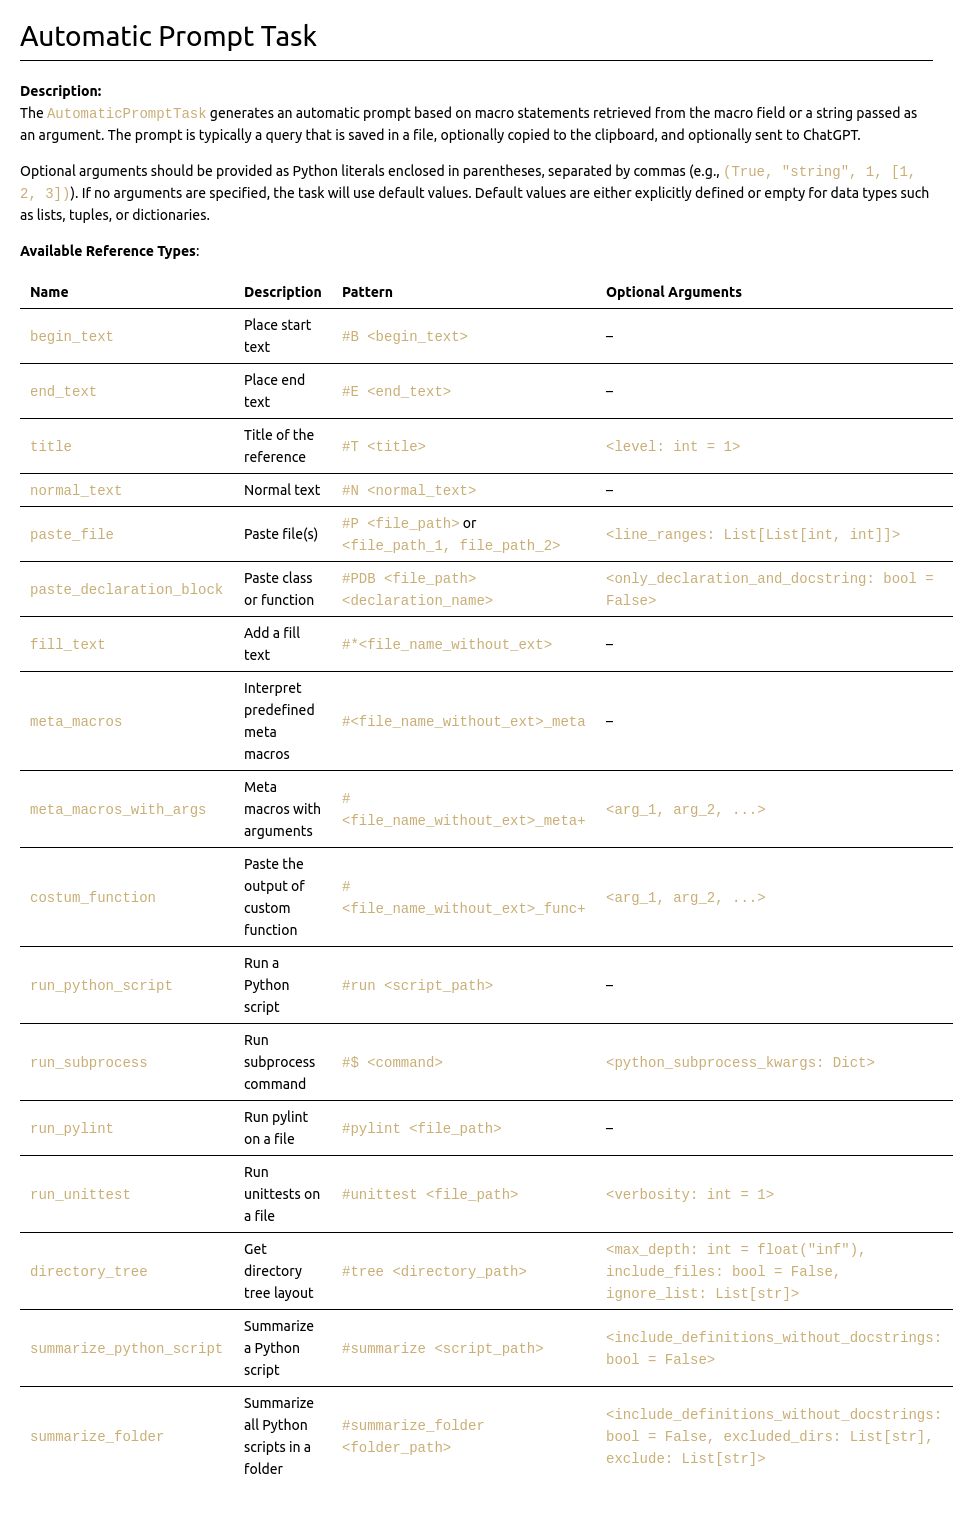
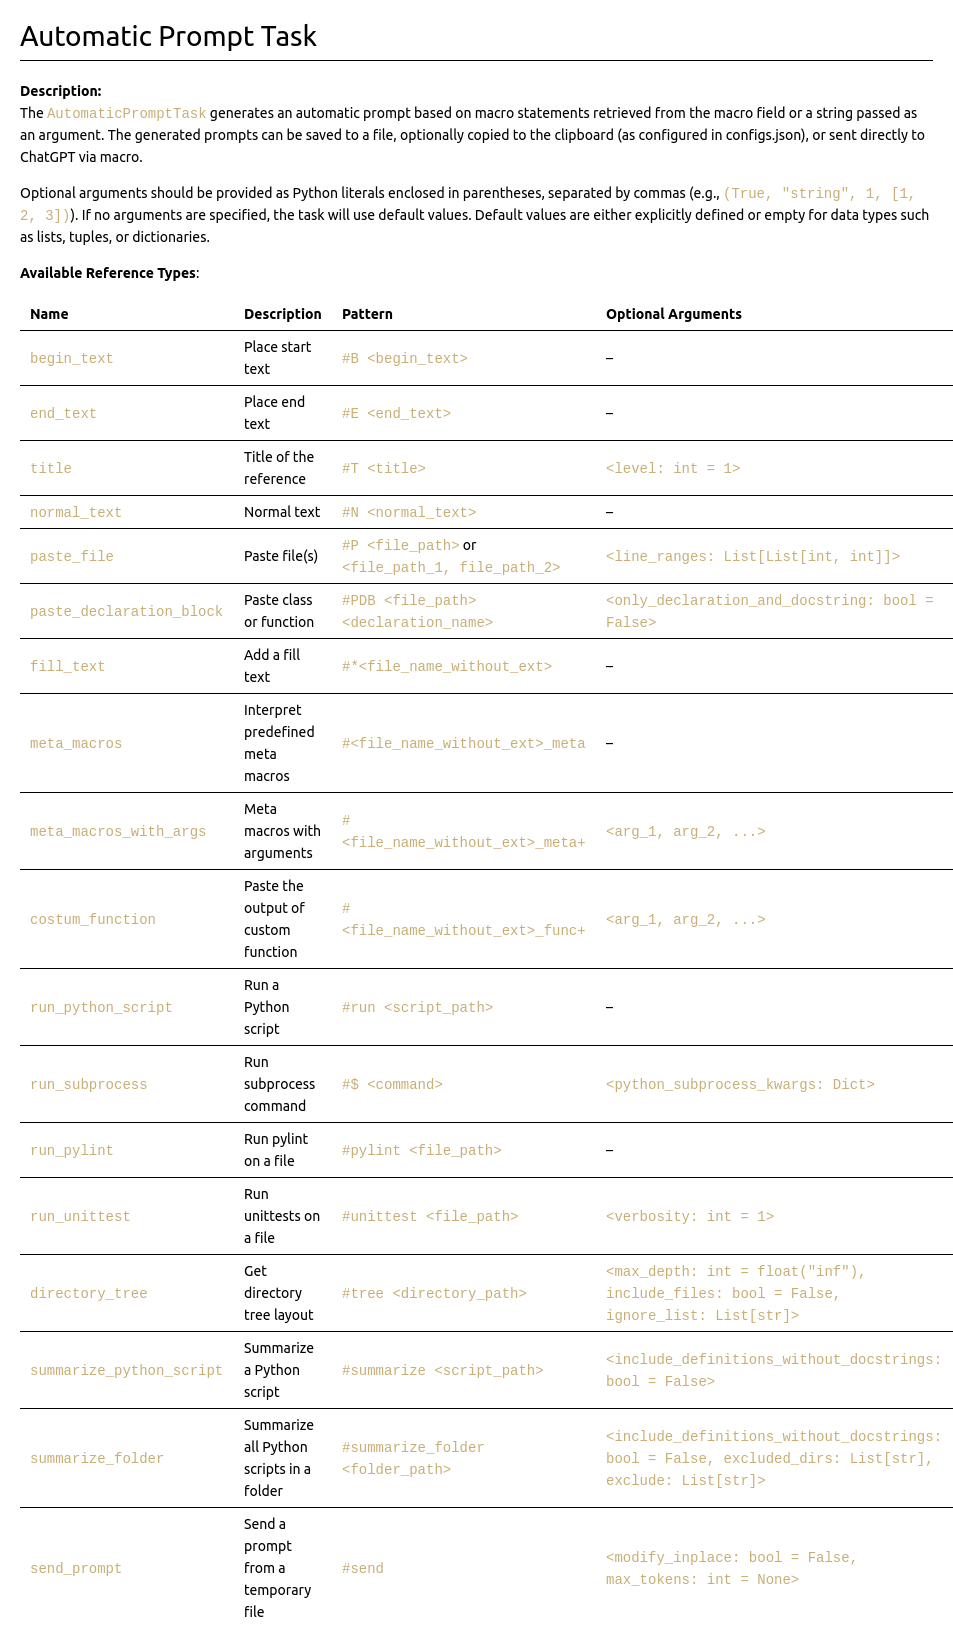
Add description on send prompt macro

diff --git a/tasks/tasks/automatic_prompt/automatic_prompt_task.py b/tasks/tasks/automatic_prompt/automatic_prompt_task.py
@@ -23,7 +23,7 @@ Available reference types:
 | directory_tree           | Get directory tree                      | #tree <directory_path>                               | <max_depth: int, include_files: List[str], ignore_list: List[str]>                            |
 | summarize_python_script  | Summarize a Python script               | #summarize <script_path>                             | <include_definitions_with_docstring: bool>                                                    |
 | summarize_folder         | Summarize Python scripts in a folder    | #summarize_folder <folder_path>                      | <include_definitions_with_docstrings: bool, excluded_dirs: List[str], excluded_files: List[str]> |
-| send_prompt              | Send a prompt from a temporary file     | #send                                                | <create_python_script: bool, max_tokens: int>                                                 |
+| send_prompt              | Send a prompt from a temporary file     | #send                                                | <modify_inplace: bool = False, max_tokens: int = None>                                        |
 
 Usage Example: 
 macros_text = (

diff --git a/tasks/management/support_files/CHEATSHEET.md b/tasks/management/support_files/CHEATSHEET.md
@@ -51,7 +51,7 @@ python path/to/format_python_task.py <root_directory> [<macro_file_path> | --hel
 ### 2. Automatic Prompt Task
 
 **Description:**            
-The `AutomaticPromptTask` is designed to generate automatic prompts based on macro statements retrieved from the macro field or a string passed as an argument. These prompts are typically queries that can be saved to a file, optionally copied to the clipboard, or sent to ChatGPT for further processing. 
+The `AutomaticPromptTask` is designed to create dynamic prompts based on macro statements provided either through the macro field or as a string argument. These prompts can serve various purposes, such as generating queries, automating tasks, or facilitating further processing. The generated prompts can be saved to a file, optionally copied to the clipboard (as configured in [configs.json](./profile/configs.json)), or sent directly to ChatGPT via macro.
 
 Optional arguments should be provided as Python literals enclosed in parentheses, separated by commas (e.g., `(True, "string", 1, [1, 2, 3])`). If no arguments are specified, the task will use default values. Default values are either explicitly defined or empty for data types such as lists, tuples, or dictionaries.
 
@@ -75,6 +75,7 @@ Optional arguments should be provided as Python literals enclosed in parentheses
 | `directory_tree`         | Get directory tree layout                                                                         | `#tree <directory_path>`                                 | `<max_depth: int = float("inf"), include_files: bool = False, ignore_list: List[str]>`                |
 | `summarize_python_script`| Summarize a Python script                                                                         | `#summarize <script_path>`                               | `<include_definitions_without_docstrings: bool = False>`                                              |
 | `summarize_folder`       | Summarize all Python scripts in a folder                                                          | `#summarize_folder <folder_path>`                        | `<include_definitions_without_docstrings: bool = False, excluded_dirs: List[str], excluded_files: List[str]>` |
+| `send_prompt`            | Send a prompt from a temporary file                                                             | `#send`                                                | `<modify_inplace: bool = False, max_tokens: int = None>`                                              |
 
 **Usage from command line**:  
 ```sh

diff --git a/README.md b/README.md
@@ -130,8 +130,7 @@ The `AutomaticPromptTask` generates an automatic prompt based on macro statement
 | `run_pylint`             | Run pylint on a file                                                                             | `#pylint <file_path>`                                   | –                                                                                                    |
 | `run_unittest`           | Run unittests on a file                                                                          | `#unittest <file_path>`                                 | `<verbosity: int = 1>`                                                                               |
 | `directory_tree`         | Get directory tree layout                                                                        | `#tree <directory_path>`                                | `<max_depth: int = float("inf"), include_files: bool = False, ignore_list: List[str]>`                |
-| `summarize_python_script`| Summarize a Python script                                                                        | `#summarize <script_path>`                              | `<include_definitions_without_docstrings: bool = False>`                                             |
-| `summarize_folder`       | Summarize all Python scripts in a folder                                                         | `#summarize_folder <folder_path>`                       | `<include_definitions_without_docstrings: bool = False, excluded_dirs: List[str], exclude: List[str]>`|
+| `send_prompt`            | Send a prompt from a temporary file                                                             | `#send`                                                | `<modify_inplace: bool = False, max_tokens: int = None>`                                              |
 
 **Usage from command line**:  
 ```sh
